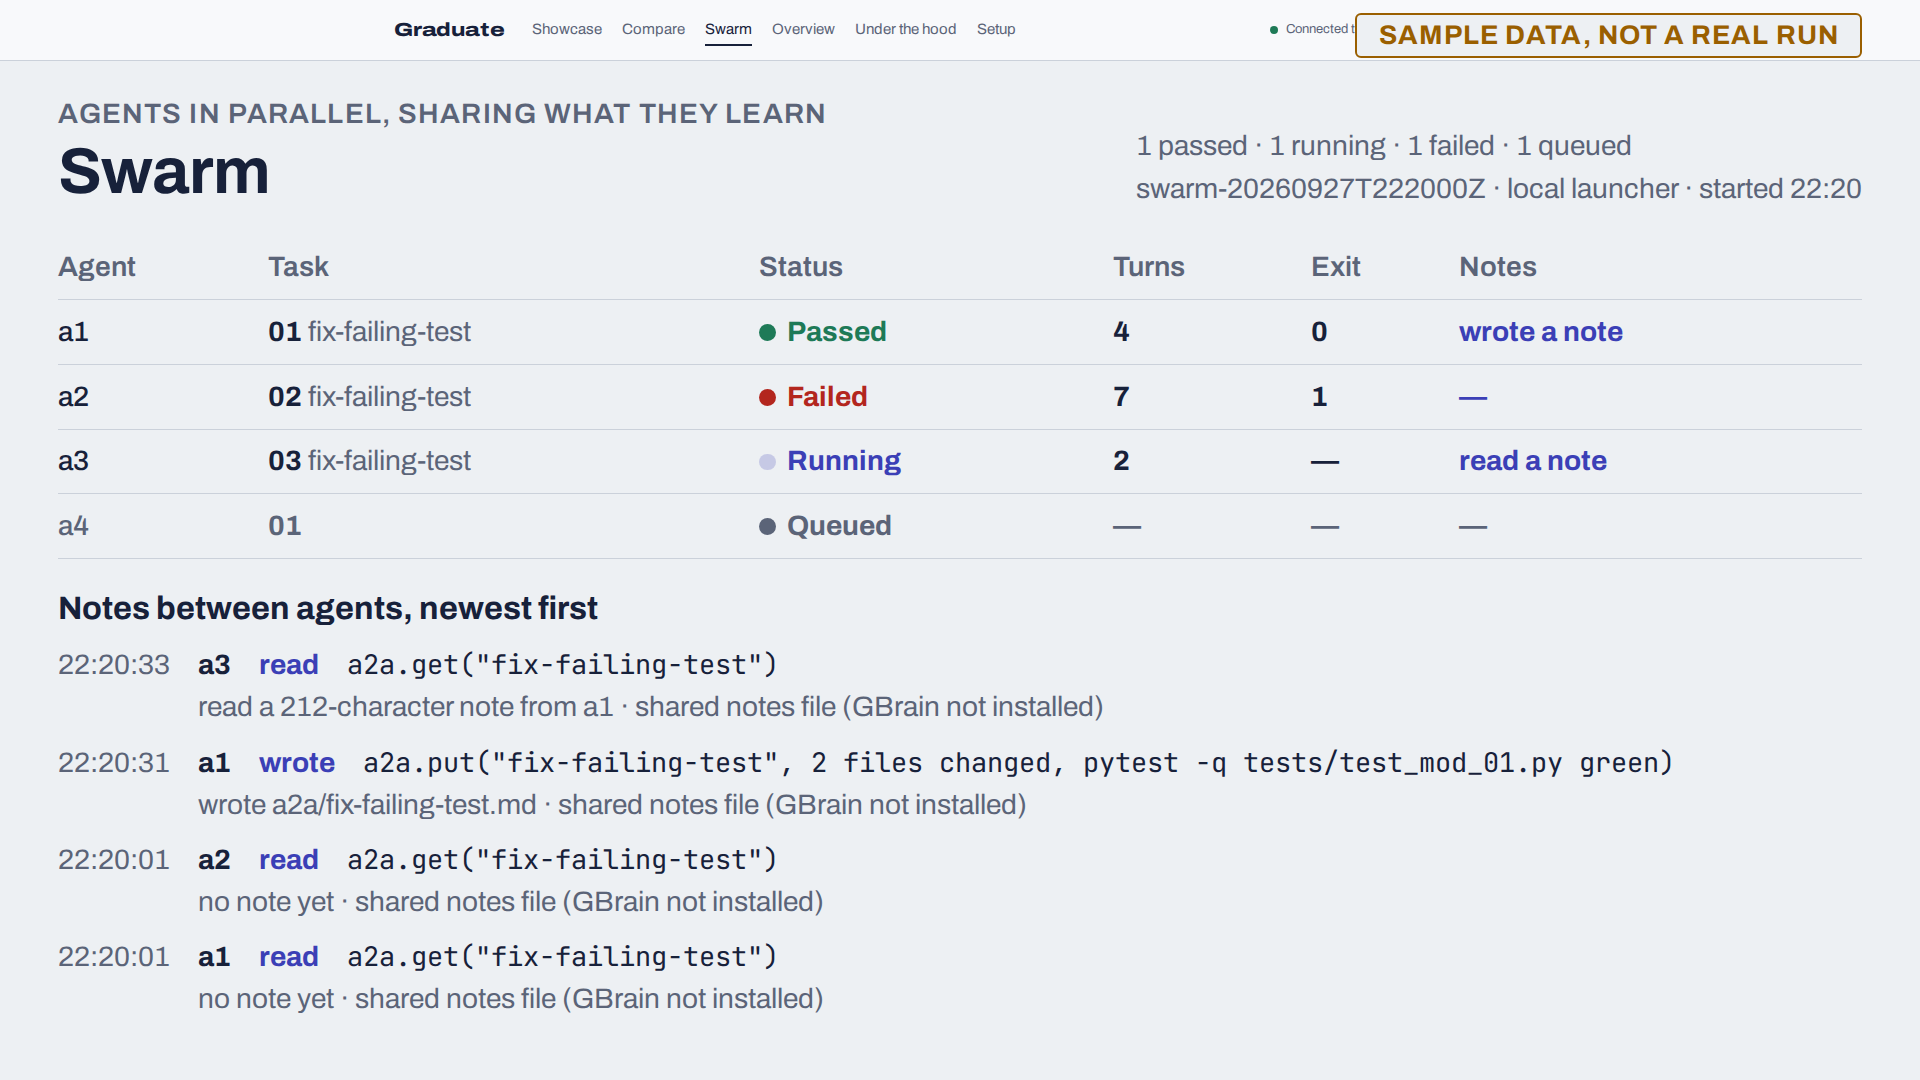
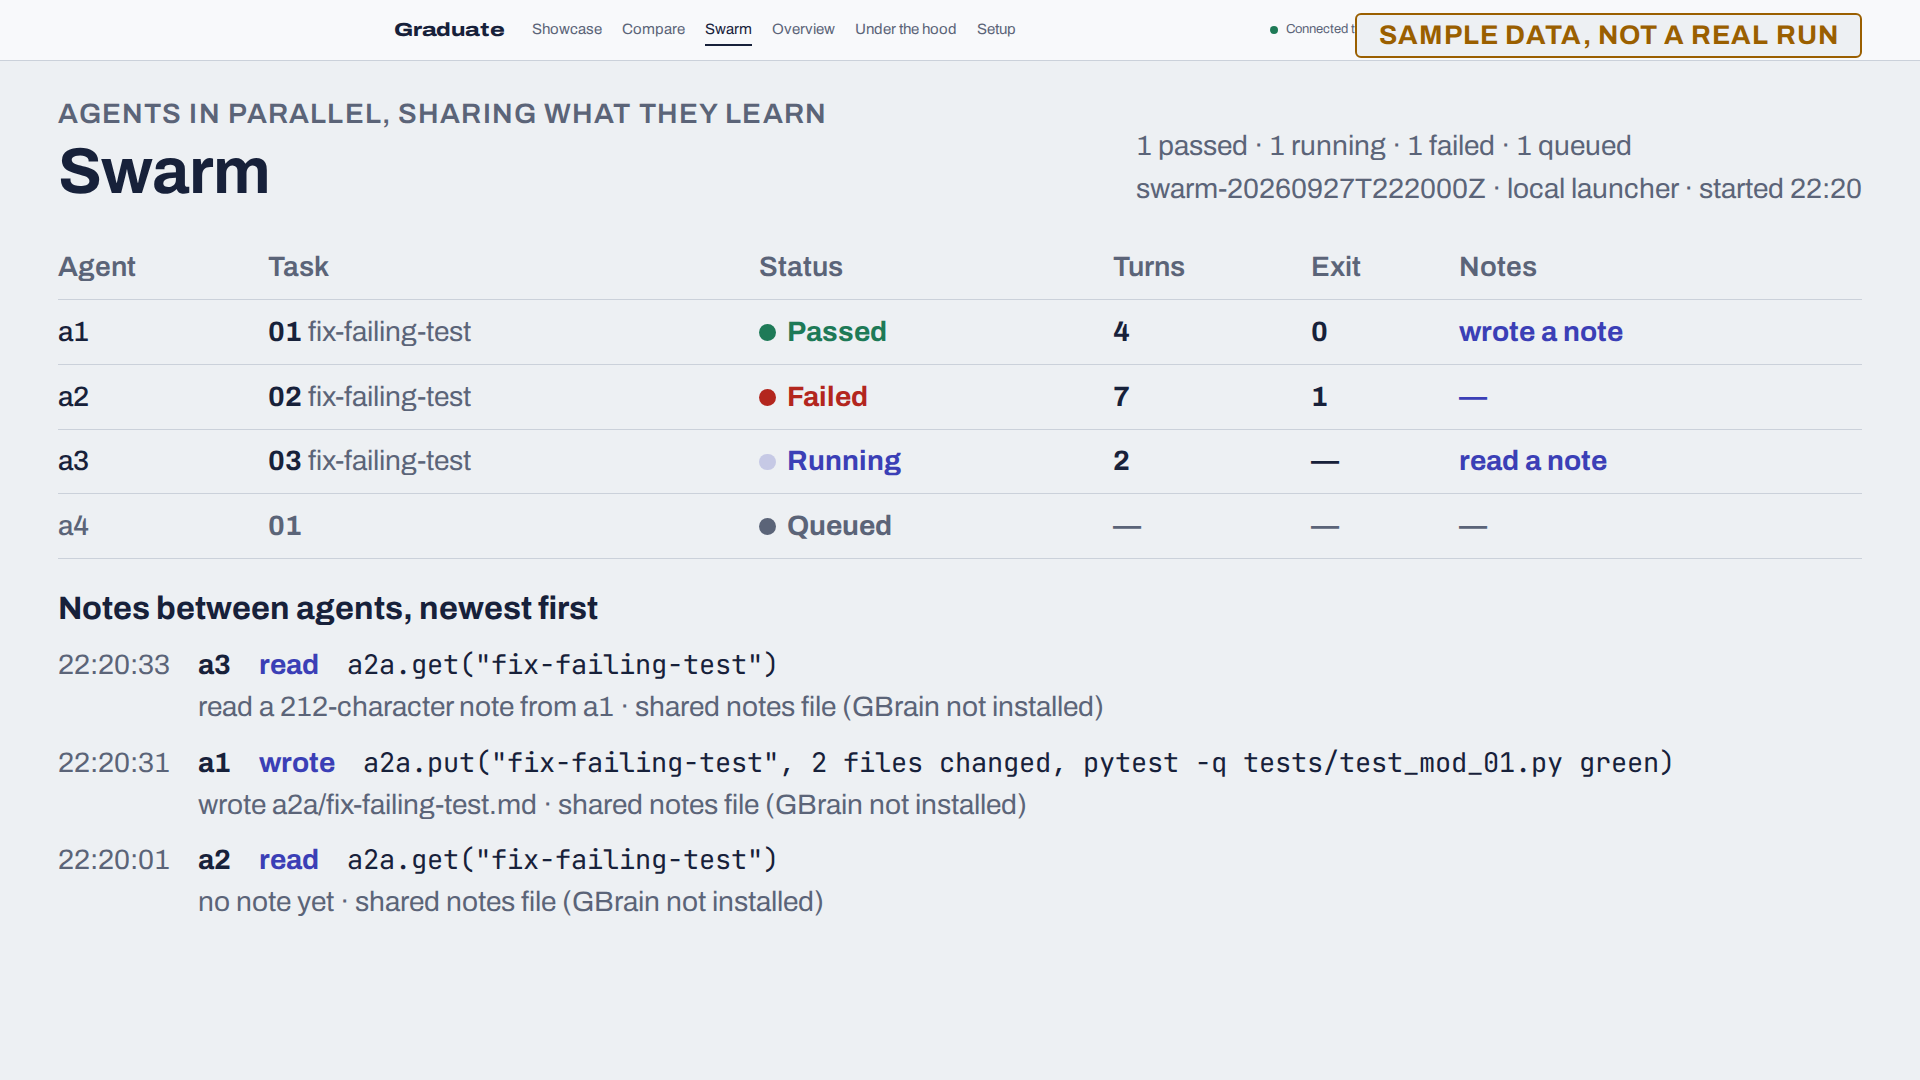
swarm.js: fewer notes as lanes grow, so 8 agents still fit a 720p projector (#143)

Changed region(s): [[0.0938, 0.8556, 0.4375, 0.9472], [0.0312, 0.8556, 0.0938, 0.9167], [0.375, 0.8556, 0.4062, 0.8861]]

diff --git a/ui/swarm.js b/ui/swarm.js
@@ -27,7 +27,8 @@ function viewSwarm() {
       <th scope="row">${esc(a.agent)}</th><td>${esc(a.task)} <small>${esc(a.task_type || "")}</small></td>
       <td class="st">${esc(a.status[0].toUpperCase() + a.status.slice(1))}</td><td>${a.turns ?? "—"}</td>
       <td>${a.exit_code ?? "—"}</td><td class="notes">${notes(a)}</td></tr>`).join("");
-  const feed = swarm.a2a.slice(-4).reverse().map((e) => `<li>
+  const shown = agents.length > 7 ? 2 : 3;  // measured: lanes + notes fit a 720p projector up to 8 agents
+  const feed = swarm.a2a.slice(-shown).reverse().map((e) => `<li>
       <time>${clock(e.ts, true)}</time><b>${esc(who[e.session_id] || e.session_id)}</b>
       <span class="dir">${e.edges.includes("a2a-write") ? "wrote" : "read"}</span><code>${esc(e.call)}</code>
       <span class="res">${esc(e.result)}</span></li>`).join("");
